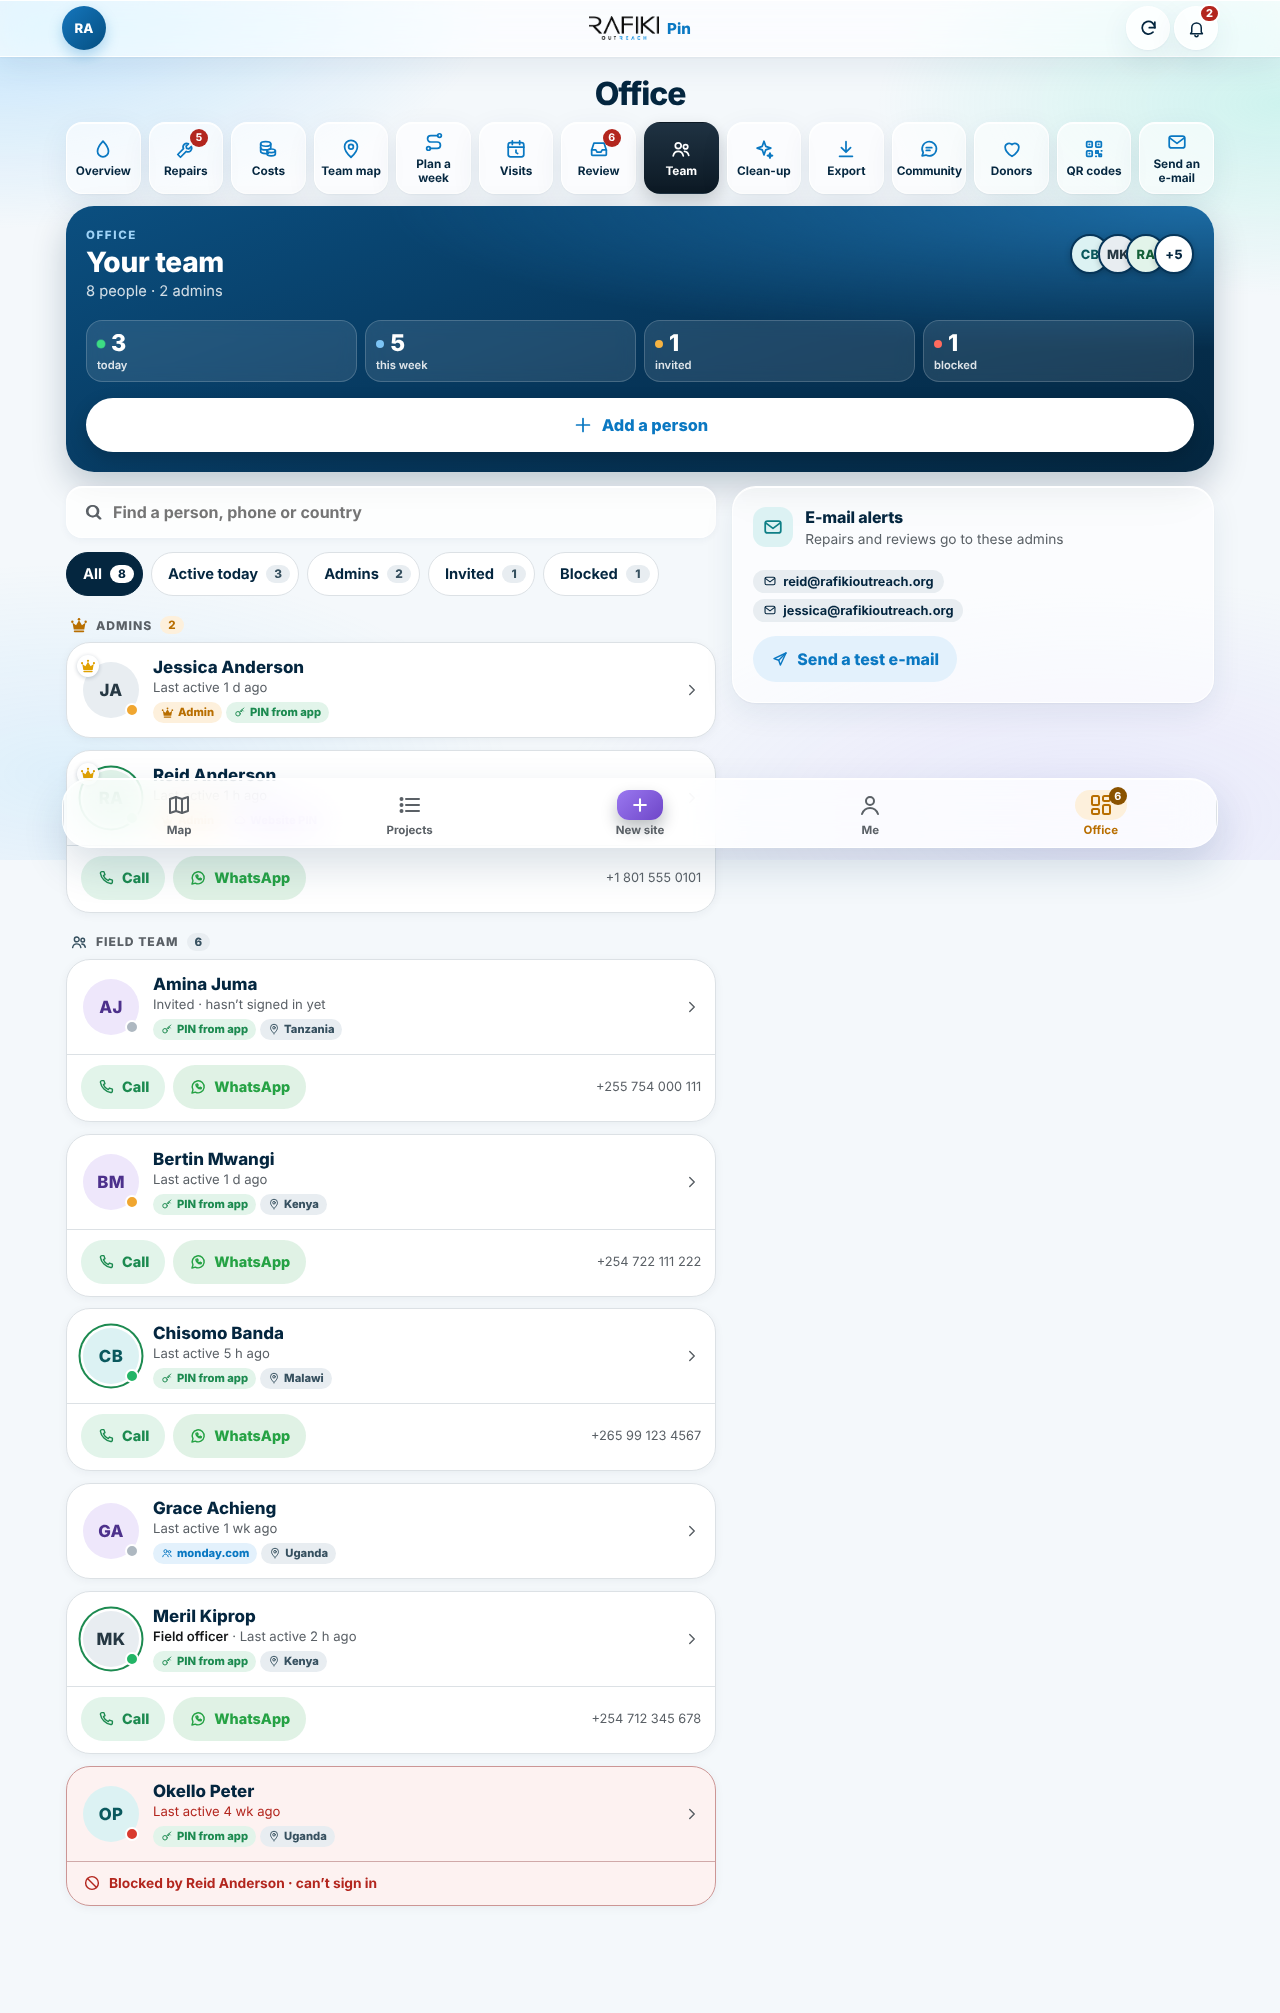
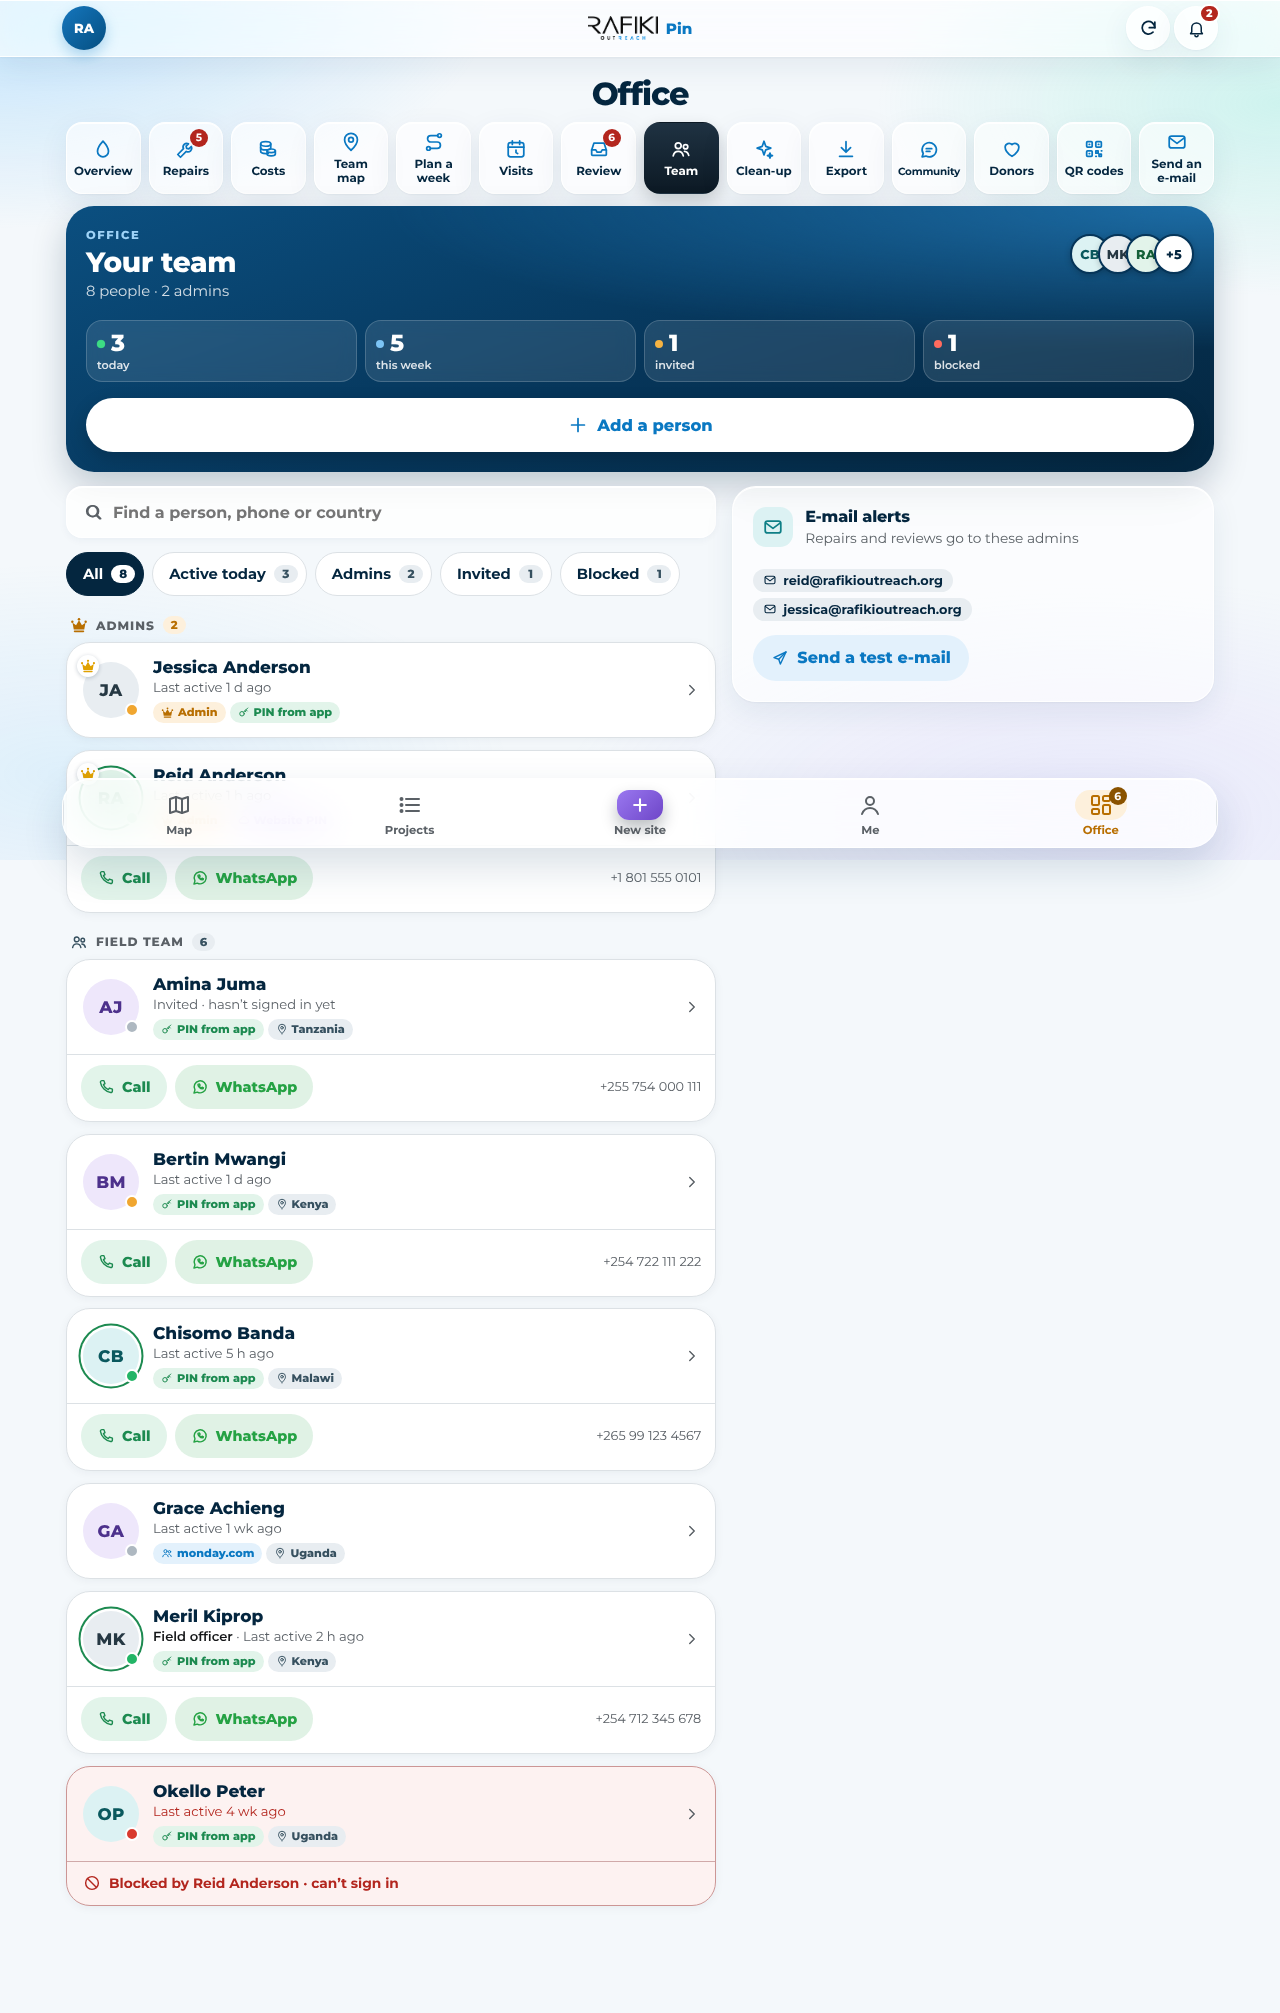
Contact sheet: tile labels fit on small phones (WhatsApp no longer cut)
The quick tiles' labels shrink to fit narrow tiles and wrap only between
words. team.py now also checks 360 px (EN and SW) and 320 px.

Claude-Session: https://claude.ai/code/session_01P7qSY1BrJphTjrgnmLJhfF

diff --git a/pin.html b/pin.html
@@ -466,6 +466,10 @@ html[data-theme=sun] .tsh-p:has(.ct-ban){background:linear-gradient(#DCEBFF,#DCE
 .ct-qt{display:flex;flex-direction:column;align-items:center;justify-content:center;gap:8px;min-height:88px;padding:12px 4px 10px;border:var(--bw) solid var(--line);border-radius:20px;background:var(--hb-slate);color:var(--ink);font:inherit;text-decoration:none;cursor:pointer;transition:transform .22s cubic-bezier(.34,1.56,.64,1),box-shadow .2s}
 .ct-qt:hover{box-shadow:0 6px 16px rgba(4,38,63,.1)}.ct-qt:active{transform:scale(.94)}.ct-qt:focus-visible{outline:3px solid var(--blue);outline-offset:2px}
 .ct-qt b{font-size:.8rem;font-weight:800;letter-spacing:-.01em;white-space:nowrap;overflow:hidden;text-overflow:ellipsis;max-width:100%}
+/* tile labels shrink to fit a narrow tile (WhatsApp at 360px) and wrap only between words, never inside one */
+.ct-qk .ct-qt{container-type:inline-size;padding-left:2px;padding-right:2px}
+.ct-qk .ct-qt b{font-size:.72rem;font-size:min(.8rem,17cqi);white-space:normal;overflow:visible;text-overflow:clip;overflow-wrap:normal;word-break:keep-all;hyphens:none;text-align:center;line-height:1.15;letter-spacing:-.02em}
+.ct-qk.n1 .ct-qt b{font-size:.8rem}
 .ct-qi{display:flex;align-items:center;justify-content:center;width:46px;height:46px;border-radius:50%;background:var(--card);color:var(--ink)}.ct-qi svg{width:22px;height:22px}
 .ct-qt.call .ct-qi{background:#1C7C4A;color:#FFFFFF}.ct-qt.wa .ct-qi{background:#25D366;color:#FFFFFF}.ct-qt.sms .ct-qi{background:var(--hb-teal);color:var(--hu-teal)}.ct-qt.mail .ct-qi{background:var(--hb-blue);color:var(--hu-blue)}
 .ct .ct-ids{margin-top:12px}

diff --git a/pin-sw.js b/pin-sw.js
@@ -3,7 +3,7 @@
 // Map tiles already seen are kept too (offline areas and the storage limit: see the end of this file), so a site
 // visited before still shows a map.
 // Whole-country maps (pin.html, feat-cmap) live in their own caches, rafiki-pin-cmap-<file>, kept until deleted in the app.
-var APP = 'rafiki-pin-app-v64', TILES = 'rafiki-pin-tiles-v1';
+var APP = 'rafiki-pin-app-v65', TILES = 'rafiki-pin-tiles-v1';
 var SHELL = ['/pin', '/vendor/leaflet/leaflet.js', '/vendor/leaflet/leaflet.css', '/img/logo-dark-bold.webp', '/pin.webmanifest', '/money.js', '/favicon.svg', '/img/logo-light-bold.webp', '/img/pin/icon-192.png'];
 
 self.addEventListener('install', function (e) {

diff --git a/qa/pin/team.py b/qa/pin/team.py
@@ -86,7 +86,7 @@ def office(pg, tab):
 def sheet(pg): return pg.locator('.tsh .rr-sh')
 with sync_playwright() as p:
     b = p.chromium.launch()
-    for W, H, tag, th, sw in [(390, 844, 'phone', '', 0), (1280, 860, 'desktop', '', 0), (390, 844, 'dark', 'dark', 0), (390, 844, 'sun', 'sun', 0), (390, 844, 'sw', '', 1)]:
+    for W, H, tag, th, sw in [(360, 740, 'p360', '', 0), (360, 740, 'p360sw', '', 1), (320, 640, 'p320', '', 0), (390, 844, 'phone', '', 0), (1280, 860, 'desktop', '', 0), (390, 844, 'dark', 'dark', 0), (390, 844, 'sun', 'sun', 0), (390, 844, 'sw', '', 1)]:
         ctx = b.new_context(viewport={'width': W, 'height': H}, device_scale_factor=2 if W < 500 else 1)
         pg, errs = login(ctx)
         theme(pg, th)
